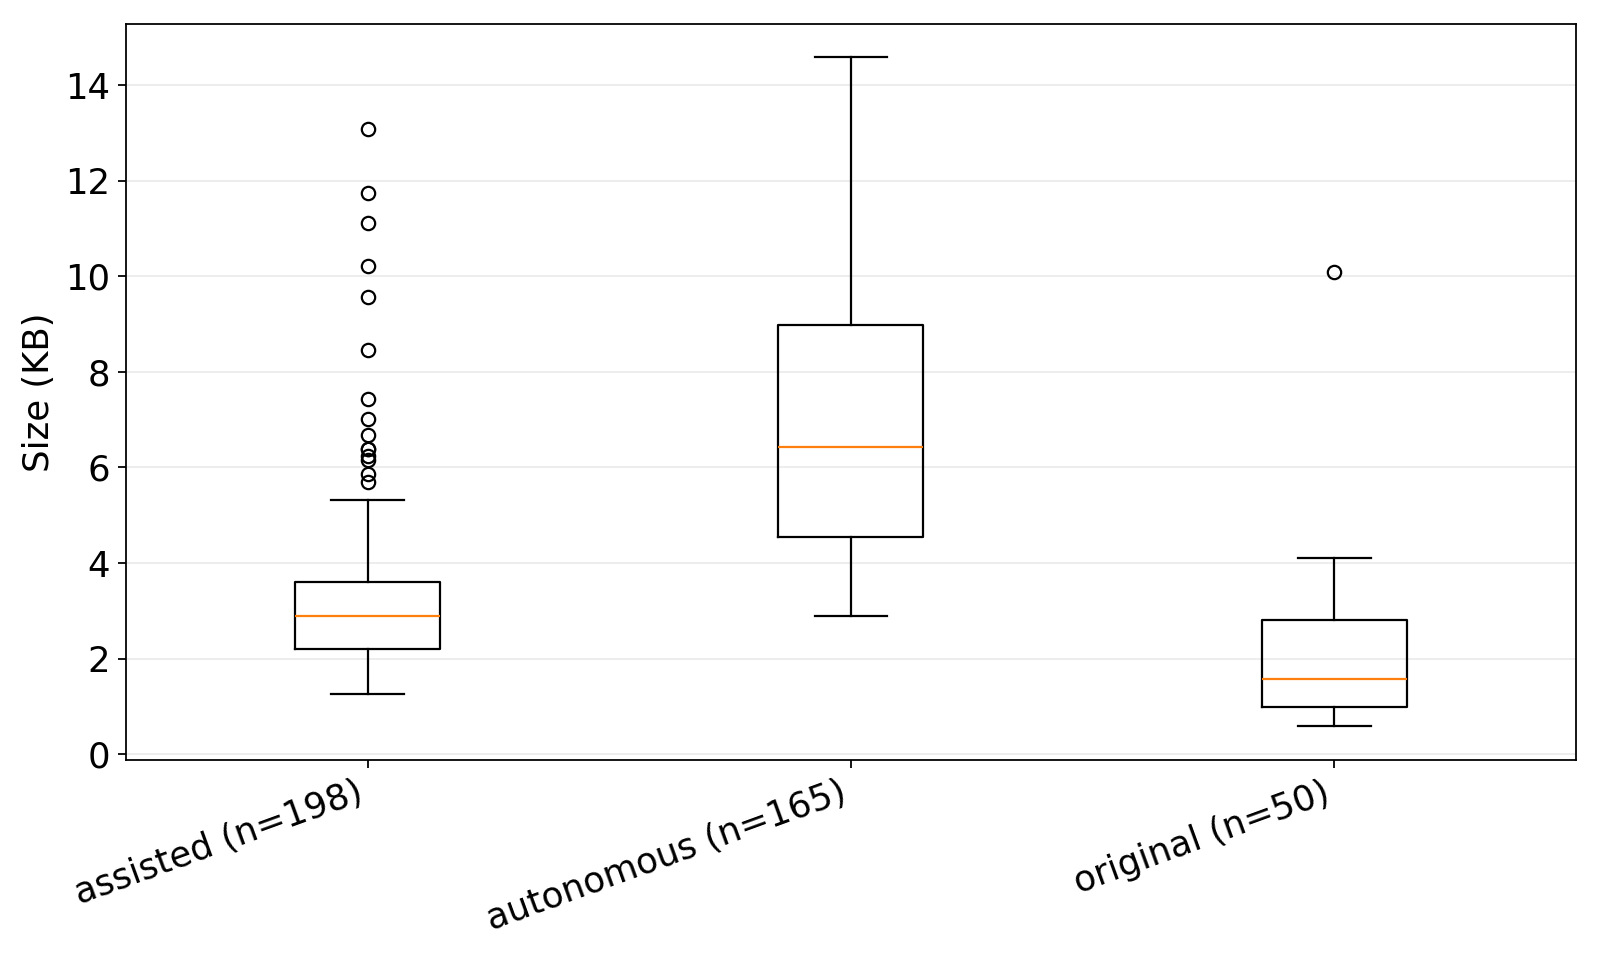
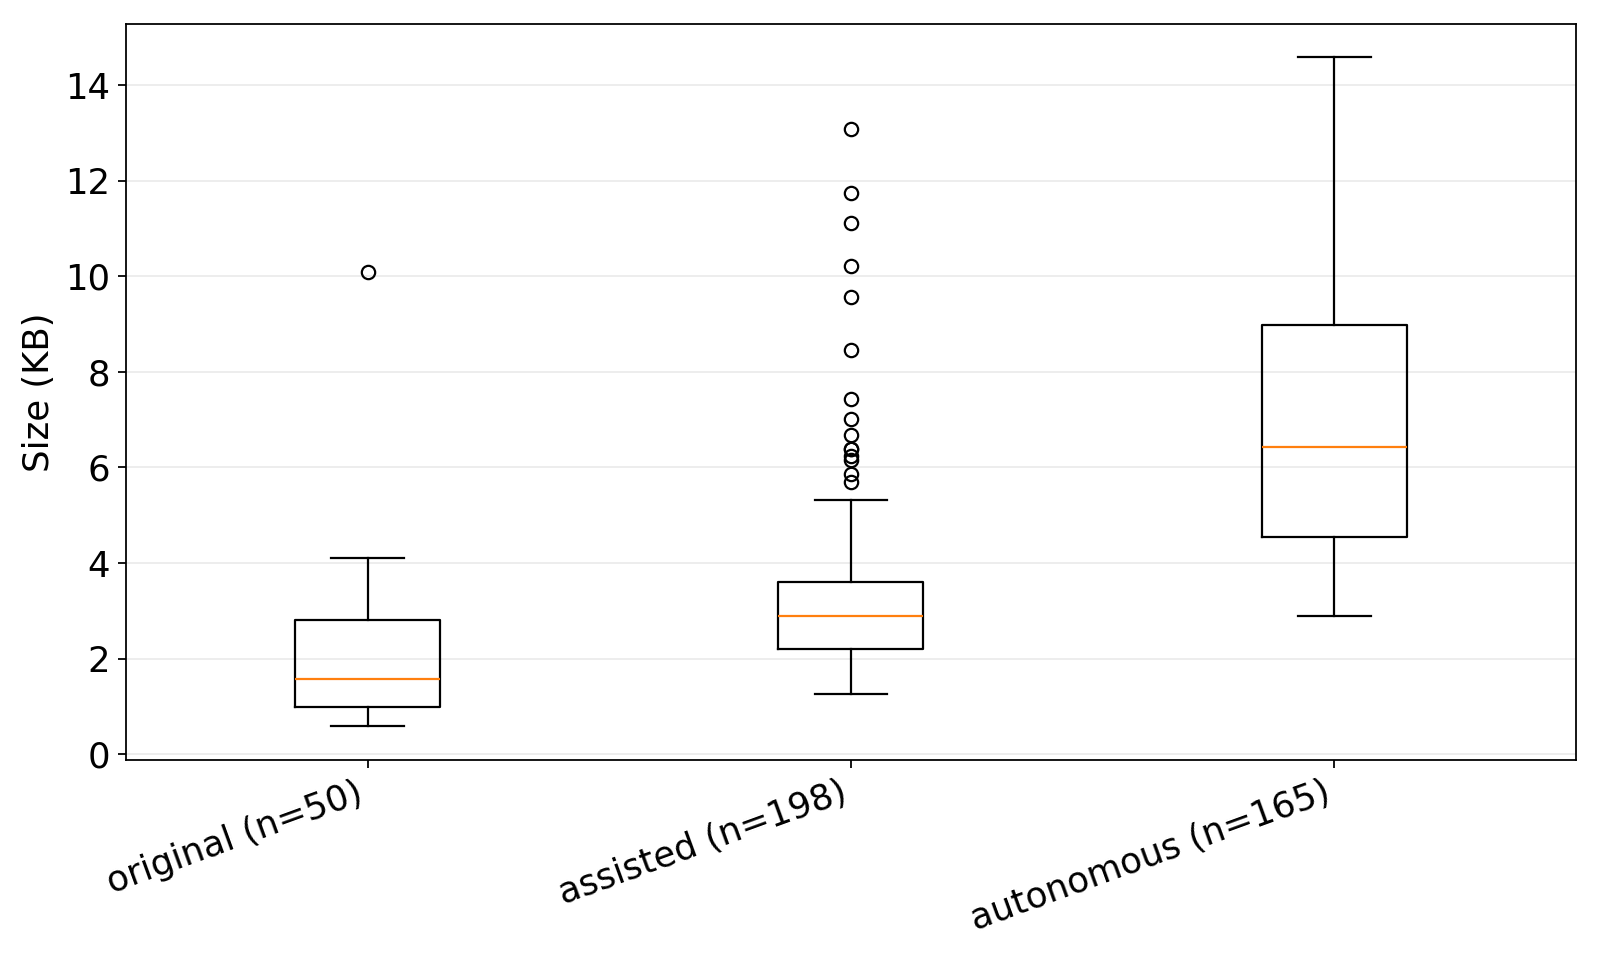
reorder modes in figure

diff --git a/scripts/analyse_file_sizes.py b/scripts/analyse_file_sizes.py
@@ -17,7 +17,7 @@ DEFAULT_REPOS_DIR = REPO_ROOT / "repos"
 OUTPUT_DIR = REPO_ROOT / "results" / "file_size_analysis"
 GENERATED_PREFIX = "GENAIGREENML"
 GENERATED_SUFFIX = ".py"
-MODES = ("assisted", "autonomous", "original", "unknown")
+MODES = ("original","assisted", "autonomous",  "unknown")
 AXIS_LABEL_FONTSIZE = 16
 TICK_LABEL_FONTSIZE = 16
 PLOT_TITLE_FONTSIZE = 18
